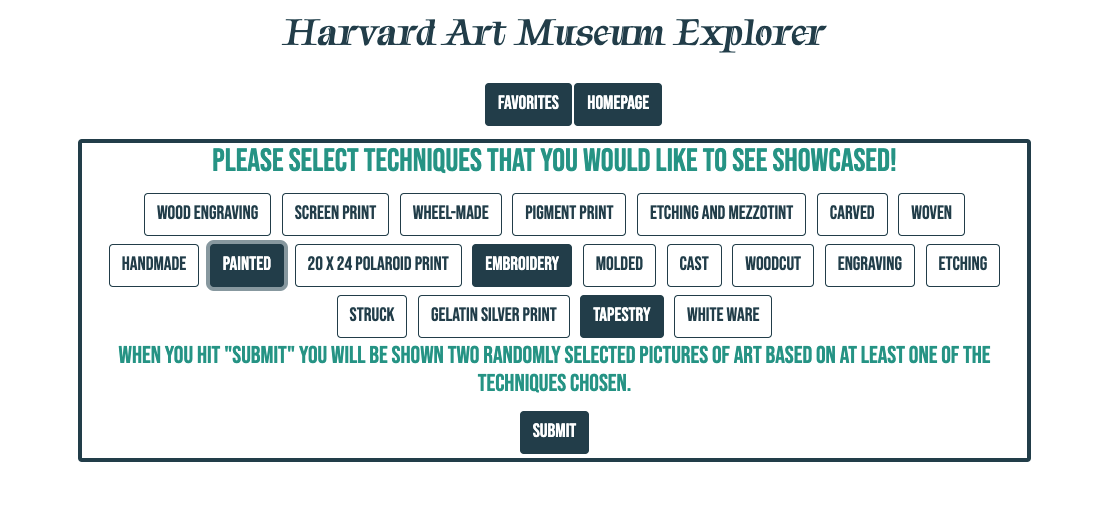
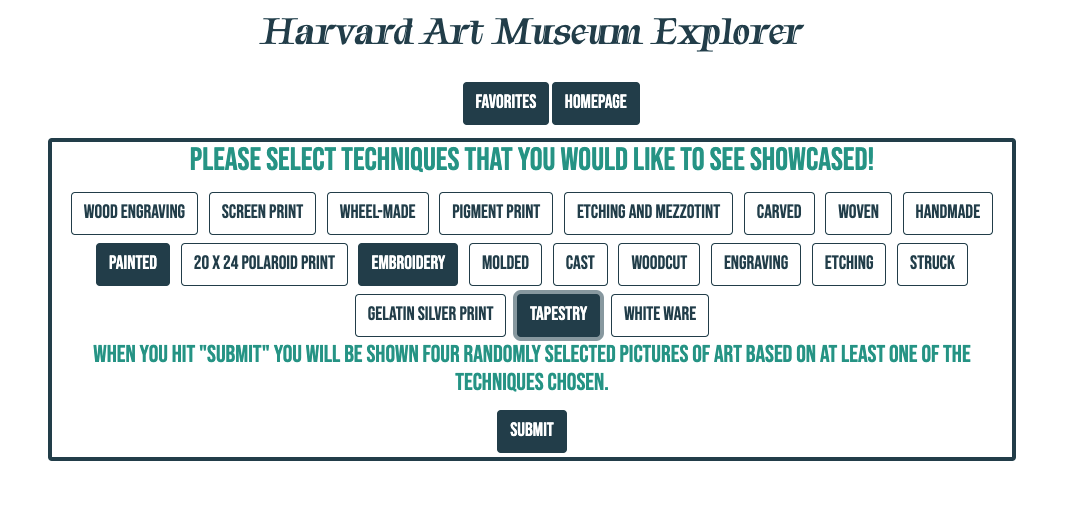
typo fixed on homepage

Changed region(s): [[0.0308, 0.1482, 0.9543, 0.919], [0.2463, 0.0296, 0.7388, 0.1186]]

diff --git a/index.html b/index.html
@@ -94,7 +94,7 @@
             <input type="checkbox" class="btn-check" id="btncheck20" value="White ware" autocomplete="off">
             <label class="btn btn-outline-primary m-1" for="btncheck20">White ware</label>
 
-            <h4>When you hit "Submit" you will be shown two randomly selected pictures of art based on at least one of the techniques chosen.</h4>
+            <h4>When you hit "Submit" you will be shown four randomly selected pictures of art based on at least one of the techniques chosen.</h4>
 
             <button id= "submitBtn" type="submit" class="btn btn-primary m-1">Submit</button>
 
